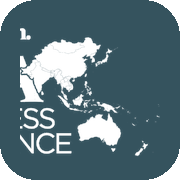
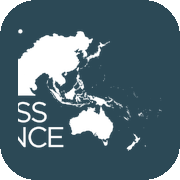
Use the official brand files from the "Asia Awareness Assets" Drive folder
- Conference logo from the 4000px transparent master (sharper header,
  hero, footer, icon and share image).
- FMI's official horizontal white logo in the footer.
- FMI's four-region Asia map (South Asia, North Asia, Southeast Asia,
  South Pacific) replaces the earlier crop; downloadable titled map and
  share image regenerated.
- README/BRAND-FMI point to the Drive folder as the source of brand files.

Claude-Session: https://claude.ai/code/session_01EzBjrMqrEAji9AWHZvxqX2

diff --git a/index.html b/index.html
@@ -80,7 +80,7 @@ img,svg{max-width:100%;height:auto;display:block}
 <header class="site-header on-dark">
   <div class="container site-header__inner">
     <a class="brand" href="#top">
-      <img src="assets/brand/conference-logo-white.png" alt="See. Love. Reach. ASIA Awareness Conference: back to top" width="1237" height="602">
+      <img src="assets/brand/conference-logo-white.png" alt="See. Love. Reach. ASIA Awareness Conference: back to top" width="1200" height="563">
     </a>
     <button class="nav-toggle" type="button" aria-expanded="false" aria-controls="site-nav">
       <svg aria-hidden="true" focusable="false" width="20" height="20" viewBox="0 0 24 24"><path d="M3 6h18M3 12h18M3 18h18" stroke="currentColor" stroke-width="2" stroke-linecap="round"/></svg>
@@ -148,7 +148,7 @@ img,svg{max-width:100%;height:auto;display:block}
     <div class="container">
       <div class="hero__content">
       <p class="eyebrow">Living Water Foursquare &amp; FMI Asia present</p>
-      <h1 id="hero-title" class="hero__logo"><img src="assets/brand/conference-logo-white.png" alt="See. Love. Reach. ASIA Awareness Conference" width="1237" height="602" fetchpriority="high"><span class="visually-hidden"> 2027</span></h1>
+      <h1 id="hero-title" class="hero__logo"><img src="assets/brand/conference-logo-white.png" alt="See. Love. Reach. ASIA Awareness Conference" width="1200" height="563" fetchpriority="high"><span class="visually-hidden"> 2027</span></h1>
       <p class="hero__theme">Together to the Unreached</p>
 
       <ul class="hero__meta">
@@ -211,9 +211,9 @@ img,svg{max-width:100%;height:auto;display:block}
           </div>
           <a class="region-map__link" href="assets/photos/see-love-reach-asia-map.jpg">
             <picture>
-              <source type="image/webp" srcset="assets/photos/fmi-asia-map-1000.webp 1000w, assets/photos/fmi-asia-map-2000.webp 2000w" sizes="(min-width: 1200px) 1152px, calc(100vw - 2rem)">
-              <img src="assets/photos/fmi-asia-map-2000.png" srcset="assets/photos/fmi-asia-map-1000.png 1000w, assets/photos/fmi-asia-map-2000.png 2000w" sizes="(min-width: 1200px) 1152px, calc(100vw - 2rem)" width="2000" height="1200" loading="lazy" decoding="async"
-                alt="Foursquare Missions International map of its four Asia regions: South Asia, North Asia, Southeast Asia, and the South Pacific (labelled together on the map as Southeast Asia + South Pacific).">
+              <source type="image/webp" srcset="assets/photos/fmi-asia-4regions-1000.webp 1000w, assets/photos/fmi-asia-4regions-2000.webp 2000w" sizes="(min-width: 960px) 900px, calc(100vw - 2rem)">
+              <img src="assets/photos/fmi-asia-4regions-2000.jpg" srcset="assets/photos/fmi-asia-4regions-1000.jpg 1000w, assets/photos/fmi-asia-4regions-2000.jpg 2000w" sizes="(min-width: 960px) 900px, calc(100vw - 2rem)" width="2000" height="1731" loading="lazy" decoding="async"
+                alt="Foursquare Missions International map of its four Asia regions: South Asia (India and its neighbors), North Asia (China, Mongolia, Korea and Japan), Southeast Asia (mainland Southeast Asia, Malaysia and the Philippines) and the South Pacific (Indonesia, Papua New Guinea, Australia, New Zealand and the Pacific islands).">
             </picture>
             <span class="visually-hidden"> (open the full-size map)</span>
           </a>
@@ -496,11 +496,11 @@ img,svg{max-width:100%;height:auto;display:block}
   <div class="container">
     <div class="footer-grid">
       <div>
-        <img class="footer-brand" src="assets/brand/conference-logo-white.png" alt="See. Love. Reach. ASIA Awareness Conference" width="1237" height="602" loading="lazy" decoding="async">
+        <img class="footer-brand" src="assets/brand/conference-logo-white.png" alt="See. Love. Reach. ASIA Awareness Conference" width="1200" height="563" loading="lazy" decoding="async">
         <!-- Partner logos: white versions for the dark footer (FMI guidelines). Black originals: assets/brand/*-black.png -->
         <div class="footer-logos">
           <img class="footer-logo-lw" src="assets/brand/living-water-logo-white.png" alt="Living Water, a Foursquare Church" width="468" height="100" loading="lazy" decoding="async">
-          <img class="footer-logo-fmi" src="assets/brand/fmi-logo-white.png" alt="Foursquare Missions International" width="1200" height="228" loading="lazy" decoding="async">
+          <img class="footer-logo-fmi" src="assets/brand/fmi-logo-white.png" alt="Foursquare Missions International" width="990" height="185" loading="lazy" decoding="async">
         </div>
         <p><strong>See. Love. Reach. ASIA</strong> · Together to the Unreached<br>Hosted by Living Water Foursquare Church in partnership with Foursquare Missions International.</p>
       </div>

diff --git a/styles.css b/styles.css
@@ -440,7 +440,7 @@ html:not(.js) .hero__controls { display: none; }
 .nation-list span { color: var(--color-text-muted); font-size: var(--fs-sm); }
 
 /* --- Region map (Why Asia) -------------------------------------------- */
-.region-map { margin: var(--space-xl) 0 0; }
+.region-map { margin: var(--space-xl) auto 0; max-width: 900px; }
 .region-map__card { border-radius: var(--radius-md); overflow: hidden; box-shadow: 0 8px 32px rgba(0, 0, 0, 0.35); background: var(--fmi-cream); }
 .region-map__title {
   background: var(--fmi-navy); color: var(--fmi-white); text-align: center;

diff --git a/README.md b/README.md
@@ -66,17 +66,21 @@ The site follows the **Foursquare Missions International (FMI) brand guidelines*
   `styles.css`.
 - **Fonts:** FMI specifies Recoleta Alt and Gotham, which are licensed fonts. The site uses the free
   stand-ins Fraunces and Montserrat from Google Fonts. Swap in the real fonts if you get web licenses.
-- **FMI logo:** the white version, `assets/brand/fmi-logo-white.png`, is in the footer.
-- **Conference logo:** "See. Love. Reach. ASIA Awareness Conference", with the Asia map.
-  - `conference-logo-original.jpg`: the file as supplied, on beige.
-  - `conference-logo-color.png`: full color, transparent background, for light backgrounds.
-  - `conference-logo-white.png`: white, transparent background, for navy. Used in the header, hero
-    (as the page's main heading, with alt text) and footer.
-  - `conference-icon-64.png`, `-180.png`, `-512.png`: the tab and home-screen icon (the logo's map on
-    its teal).
+- **Source files:** the master brand files live in the Google Drive folder **"Asia Awareness Assets"**:
+  - the brand deck (`SeeLoveReach_AsiaAwareness_BrandDeck.pdf`);
+  - conference logos;
+  - FMI logos (PNG and EPS);
+  - website headers;
+  - the FMI Asia regions map.
 
-  The cutouts were made from a 1280px JPG. Ask for an SVG or high-resolution PNG of the logo for
-  the sharpest result.
+  Copies the site uses are in `assets/`.
+- **Conference logo:** "See. Love. Reach. ASIA Awareness Conference", with the Asia map, from
+  `AsiaAwareness_Logo.png` (4000px, transparent background).
+  - `conference-logo-color.png`: full color, for light backgrounds (used in the share image).
+  - `conference-logo-white.png`: white, for navy. Used in the header, hero (as the page's main
+    heading, with alt text) and footer.
+  - `conference-icon-64.png`, `-180.png`, `-512.png`: the tab and home-screen icon (the logo's map).
+- **FMI logo:** `fmi-logo-white.png` is FMI's official `FMILogo_Horiz_White.png`.
 - **Wording:** always "See. Love. Reach." with periods.
 - **Share image:** `assets/og-image.png` (1200×630) is the conference logo on its beige, over an FMI navy strip
   with "Together to the Unreached" and the dates.
@@ -110,7 +114,7 @@ motion", and it stops while the tab is hidden or the hero is scrolled out of vie
 | `hero-3-540` | supplied, **confirm license**; only 540px wide, so it looks soft on large screens |
 | `hero-4-*` | supplied, **confirm license** |
 
-In the Why Asia section, the map card has a navy title band, "See. Love. Reach. ASIA" over "Asia Awareness Conference 2027", as live text. Tapping the map opens `see-love-reach-asia-map.jpg`, the same title and map as one image, which is handy to download and share. `fmi-asia-map-*` (not part of the slideshow) is the Asia portion of FMI's global regions map, shown in the Why Asia section with a credit to FMI. It links to the full-size image so people on phones can zoom in. (It replaced the earlier "Together to the Unreached 2027" map, which is still in git history.)
+In the Why Asia section, the map card has a navy title band, "See. Love. Reach. ASIA" over "Asia Awareness Conference 2027", as live text. Tapping the map opens `see-love-reach-asia-map.jpg`, the same title and map as one image, which is handy to download and share. `fmi-asia-4regions-*` (not part of the slideshow) is FMI's four-region Asia map (`FMI_GlobalMapFor_AsiaAwarenessConf.png`): South Asia, North Asia, Southeast Asia and South Pacific. It is shown in the Why Asia section with a credit to FMI. It links to the full-size image so people on phones can zoom in. (It replaced the earlier "Together to the Unreached 2027" map, which is still in git history.)
 
 The slideshow deliberately shows no place names, in the captions or the alt text.
 

diff --git a/BRAND-FMI.md b/BRAND-FMI.md
@@ -18,12 +18,10 @@ and how this site applies them. Follow these for any future change to the site.
   - vertical: globe over FMI, with or without the full name under a rule.
 - **Do not** recolor the wordmark, stretch the logo, or put the full-color logo on a busy or dark
   background. Use the white version there.
-- **Files on this site:**
-  - `assets/brand/fmi-logo-white.png`, used in the footer, which is dark navy.
-  - `assets/brand/fmi-logo-color.png`, for light backgrounds.
-
-  Both were taken from FMI's own regions-map artwork. Swap them for official logo files from FMI if
-  you get them.
+- **Files on this site:** `assets/brand/fmi-logo-white.png` (FMI's official horizontal white logo), used
+  in the footer, which is dark navy.
+- **Other official FMI logo files** (green, grey, vertical, EPS) are in the Google Drive folder "Asia
+  Awareness Assets" › Branding + Logos › FMI Logos.
 
 ## Color palette (from the guide)
 
@@ -76,9 +74,9 @@ inline critical CSS in `index.html`).
 
 ## Regions map
 
-`assets/photos/fmi-asia-map-*` is the Asia portion of **FMI_GlobalRegionsMap** (North Asia, South Asia,
-Southeast Asia + South Pacific), cropped from FMI's map with its edges softened. Credit FMI when it is
-shown.
+`assets/photos/fmi-asia-4regions-*` is FMI's four-region Asia map (South Asia, North Asia, Southeast
+Asia, South Pacific), from the Drive folder (`FMI_GlobalMapFor_AsiaAwarenessConf.png`). It carries the
+FMI logo; credit FMI when it is shown.
 
 ## Conference logo (alongside FMI)
 
